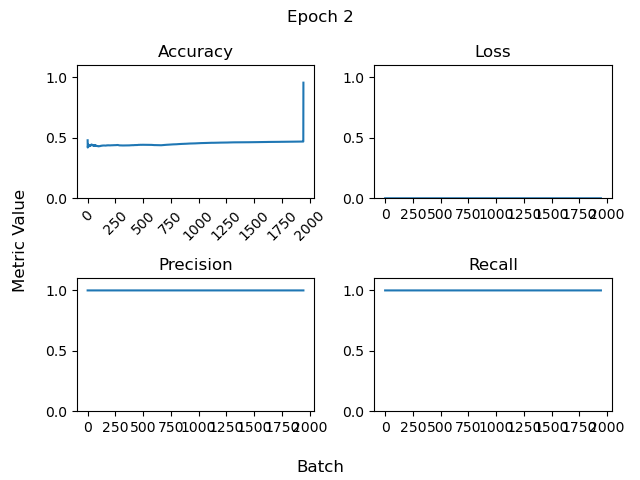
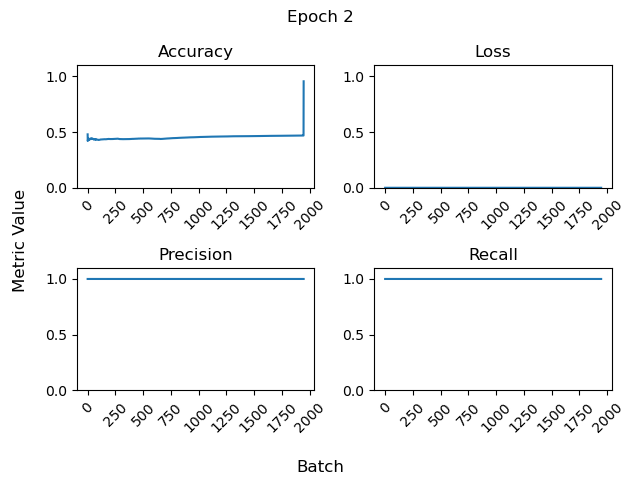
tilting x label

diff --git a/ShapeDNN/getPerBatchMetrics.py b/ShapeDNN/getPerBatchMetrics.py
@@ -51,7 +51,7 @@ for epoch in range(len(Acc)):
 	loss = Loss[epoch]
 	prec = Prec[epoch]
 	rec = Rec[epoch]
-	print(len(acc))
+	#print(len(acc))
 	fig, axs = plt.subplots(2, 2)
 
 	axs[0, 0].plot(acc)
@@ -59,23 +59,24 @@ for epoch in range(len(Acc)):
 	axs[0, 0].set_ylim([0, 1.1])
 	axs[0, 0].xaxis.set_major_locator(MaxNLocator(integer=True))
 	axs[0, 0].tick_params(axis='x', labelrotation = 45)
-	#axs[0, 0].set_xticklabels(axs[0, 0].get_xticks(), rotation=45)
-
 
 	axs[0, 1].plot(loss)
 	axs[0, 1].set_title('Loss')
 	axs[0, 1].set_ylim([0, 1.1])
 	axs[0, 1].xaxis.set_major_locator(MaxNLocator(integer=True))
+	axs[0, 1].tick_params(axis='x', labelrotation = 45)
 
 	axs[1, 0].plot(prec)
 	axs[1, 0].set_title('Precision')
 	axs[1, 0].set_ylim([0, 1.1])
 	axs[1, 0].xaxis.set_major_locator(MaxNLocator(integer=True))
+	axs[1, 0].tick_params(axis='x', labelrotation = 45)
 
 	axs[1, 1].plot(rec)
 	axs[1, 1].set_title('Recall')
 	axs[1, 1].set_ylim([0, 1.1])
 	axs[1, 1].xaxis.set_major_locator(MaxNLocator(integer=True))
+	axs[1, 1].tick_params(axis='x', labelrotation = 45)
 
 	fig.supxlabel('Batch')
 	fig.supylabel('Metric Value')
